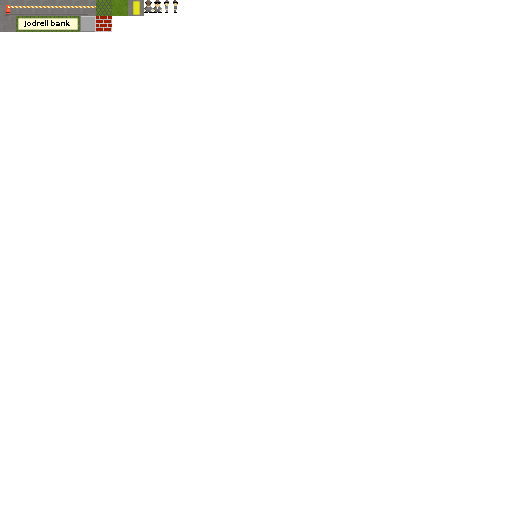
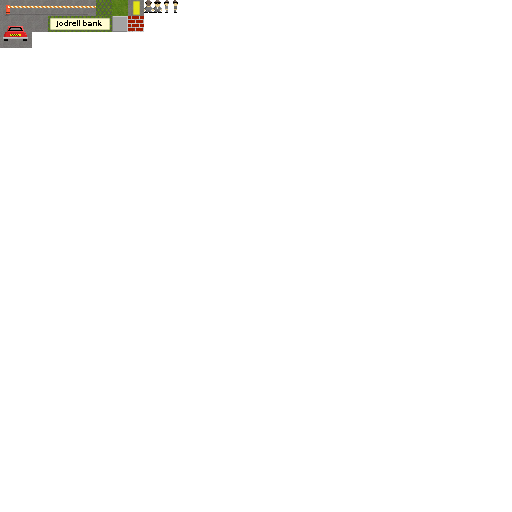
Added a car even though its from the wrong perspective

Changed region(s): [[0.0, 0.0312, 0.2812, 0.0938]]

diff --git a/game_view.py b/game_view.py
@@ -113,22 +113,25 @@ class TileTypes:
     CHAINLINK         = 9
     JODRELL_SIGN      = 10
     BARRIER           = 11
+    CAR               = 12
 
     Doors      = set((DOOR_CLOSED,DOOR_OPEN))
     Computers  = set()
-    Impassable = set((WALL,DOOR_CLOSED,CHAINLINK,JODRELL_SIGN,BARRIER)) | Computers
+    Impassable = set((WALL,DOOR_CLOSED,CHAINLINK,JODRELL_SIGN,BARRIER,CAR)) | Computers
 
 class TileData(object):
     texture_names = {TileTypes.GRASS         : 'grass.png',
                      TileTypes.ROAD          : 'road.png',
                      TileTypes.ROAD_MARKING  : 'marking.png',
                      TileTypes.WALL          : 'wall.png',
+                     TileTypes.PLAYER        : 'road.png',
                      TileTypes.DOOR_CLOSED   : 'door_closed.png',
                      TileTypes.DOOR_OPEN     : 'door_open.png',
                      TileTypes.TILE          : 'tile.png',
                      TileTypes.JODRELL_SIGN  : 'sign.png',
                      TileTypes.CHAINLINK     : 'chain.png',
                      TileTypes.BARRIER       : 'barrier.png',
+                     TileTypes.CAR           : 'car.png'
                      }
     
     def __init__(self,type,pos):
@@ -144,6 +147,8 @@ class TileData(object):
         bl        = pos * globals.tile_dimensions
         tr        = bl + self.size*globals.tile_dimensions
         self.quad.SetVertices(bl,tr,0)
+    def Delete(self):
+        self.quad.Delete()
 
 class Door(TileData):
     def __init__(self,type,pos):
@@ -173,6 +178,7 @@ class GameMap(object):
                      'c' : TileTypes.CHAINLINK,
                      's' : TileTypes.JODRELL_SIGN,
                      'p' : TileTypes.PLAYER,
+                     'v' : TileTypes.CAR,
                      'b' : TileTypes.BARRIER,}
     def __init__(self,name):
         self.size   = Point(120,81)
@@ -188,12 +194,16 @@ class GameMap(object):
                     line += ' '*(self.size.x - len(line))
                 if len(line) > self.size.x:
                     line = line[:self.size.x]
-                for x,tile in enumerate(line):
+                for inv_x,tile in enumerate(line[::-1]):
+                    x = self.size.x-1-inv_x
                     #try:
                     if 1:
                         td = TileDataFactory(self,self.input_mapping[tile],Point(x,y))
                         for tile_x in xrange(td.size.x):
                             for tile_y in xrange(td.size.y):
+                                if self.data[x+tile_x][y+tile_y] != TileTypes.GRASS:
+                                    self.data[x+tile_x][y+tile_y].Delete()
+                                    self.data[x+tile_x][y+tile_y] = TileTypes.GRASS
                                 if self.data[x+tile_x][y+tile_y] == TileTypes.GRASS:
                                     self.data[x+tile_x][y+tile_y] = td
                         if self.input_mapping[tile] == TileTypes.PLAYER:
